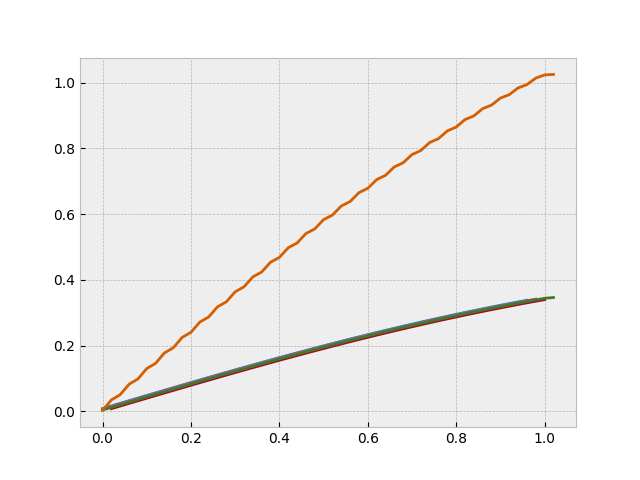
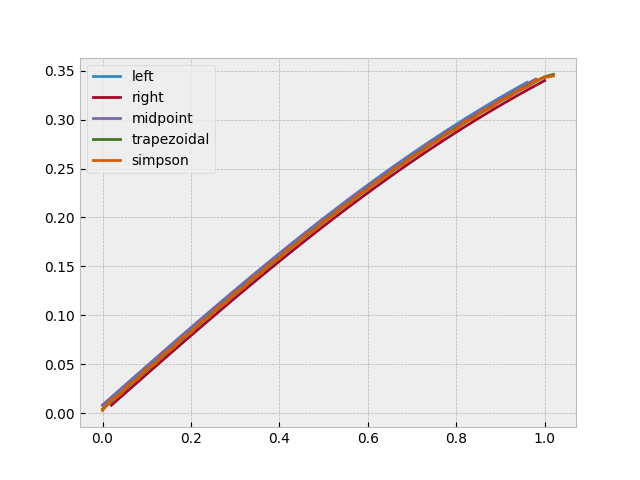
I realized I did the problem wrong and it should be in intervals n, not 50 intervals

diff --git a/calc_standard_normal_probability.py b/calc_standard_normal_probability.py
@@ -40,7 +40,10 @@ def calc_standard_normal_probability(a,b,n,rule):
       probability_list[0].append(a)
       a += step_size
       next_x += step_size
+    print('probability midpoint',probability)
     return probability_list
+
+  #if rule is trapezoidal
   elif rule == "trapezoidal":
     probability += step_size*.5*function(a)
     probability_list[1].append(probability)
@@ -54,7 +57,10 @@ def calc_standard_normal_probability(a,b,n,rule):
     probability += step_size * .5 * function(a)
     probability_list[1].append(probability)
     probability_list[0].append(a)
+    print('probability trapezoidal',probability)
     return probability_list
+
+    #If rule is Simpson
   elif rule == "simpson":
     probability += step_size*1/3*function(a)
     probability_list[1].append(probability)
@@ -62,7 +68,7 @@ def calc_standard_normal_probability(a,b,n,rule):
     osolator = 1
     while a < b:
       a += step_size
-      probability += (3+osolator)*step_size * function(a)
+      probability += (3+osolator)*step_size/3 * function(a)
       probability_list[1].append(probability)
       probability_list[0].append(a)
       osolator = osolator * -1
@@ -70,17 +76,20 @@ def calc_standard_normal_probability(a,b,n,rule):
     probability += step_size * 1/3 * function(a)
     probability_list[1].append(probability)
     probability_list[0].append(a)
+    print('probability simpson',probability)
     return probability_list
 left = calc_standard_normal_probability(0,1,50,"left endpoint")
 right = calc_standard_normal_probability(0,1,50,"right endpoint")
 mid = calc_standard_normal_probability(0,1,50,"midpoint")
 trap =calc_standard_normal_probability(0,1,50,"trapezoidal")
 simpson = calc_standard_normal_probability(0,1,50,"simpson")
+print()
 plt.plot(left[0],left[1],label = "left")
 plt.plot(right[0],right[1], label = 'right')
-plt.plot(mid[0],mid[1])
-plt.plot(trap[0],trap[1])
-plt.plot(simpson[0],simpson[1])
+plt.plot(mid[0],mid[1], label= "midpoint")
+plt.plot(trap[0],trap[1], label = "trapezoidal")
+plt.plot(simpson[0],simpson[1], label = "simpson")
+plt.legend() 
 plt.savefig('calc_standard_normal_probability')
 
 
